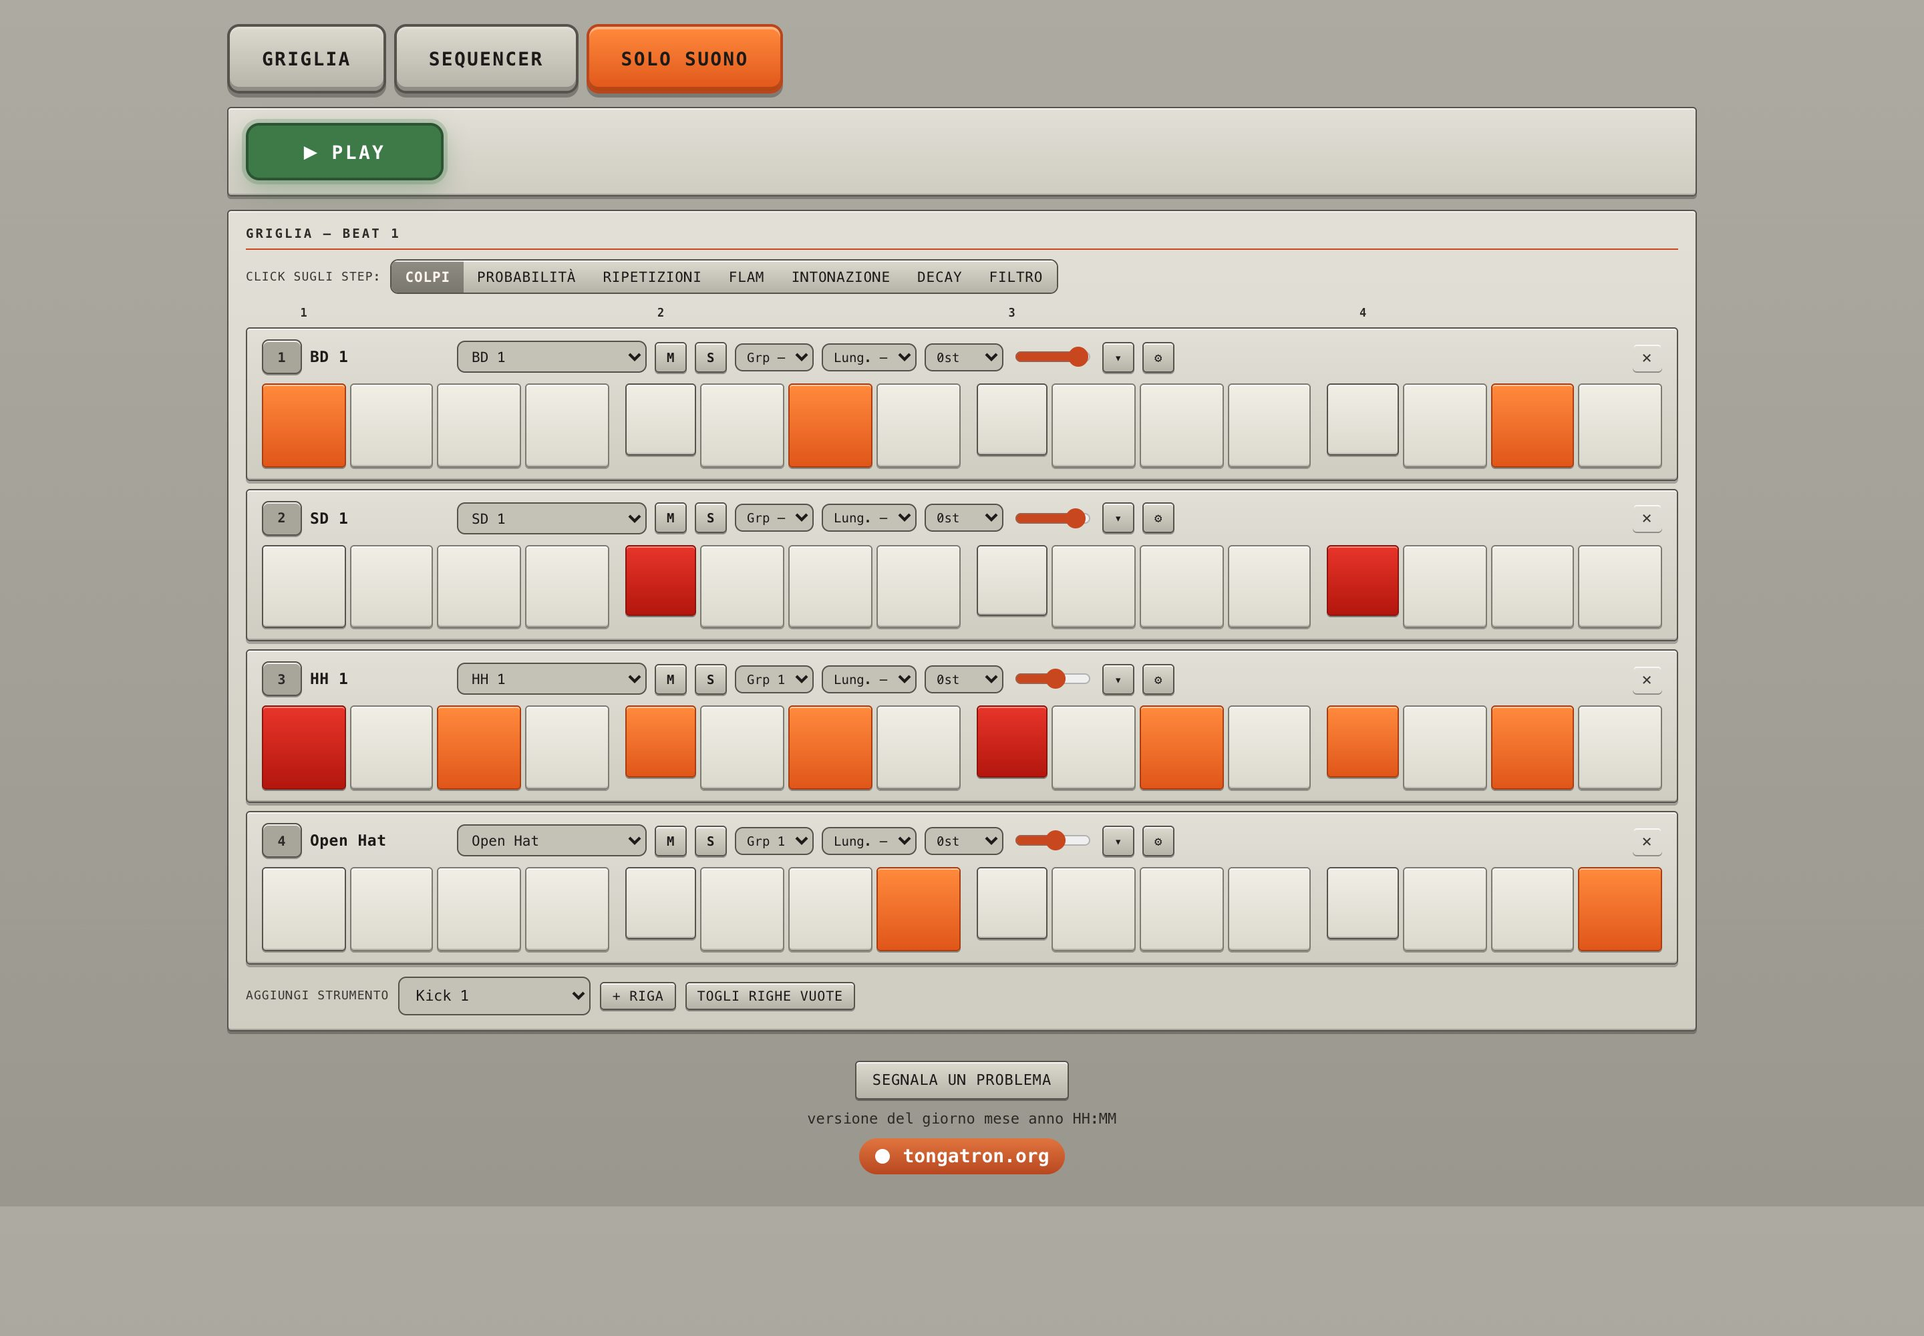
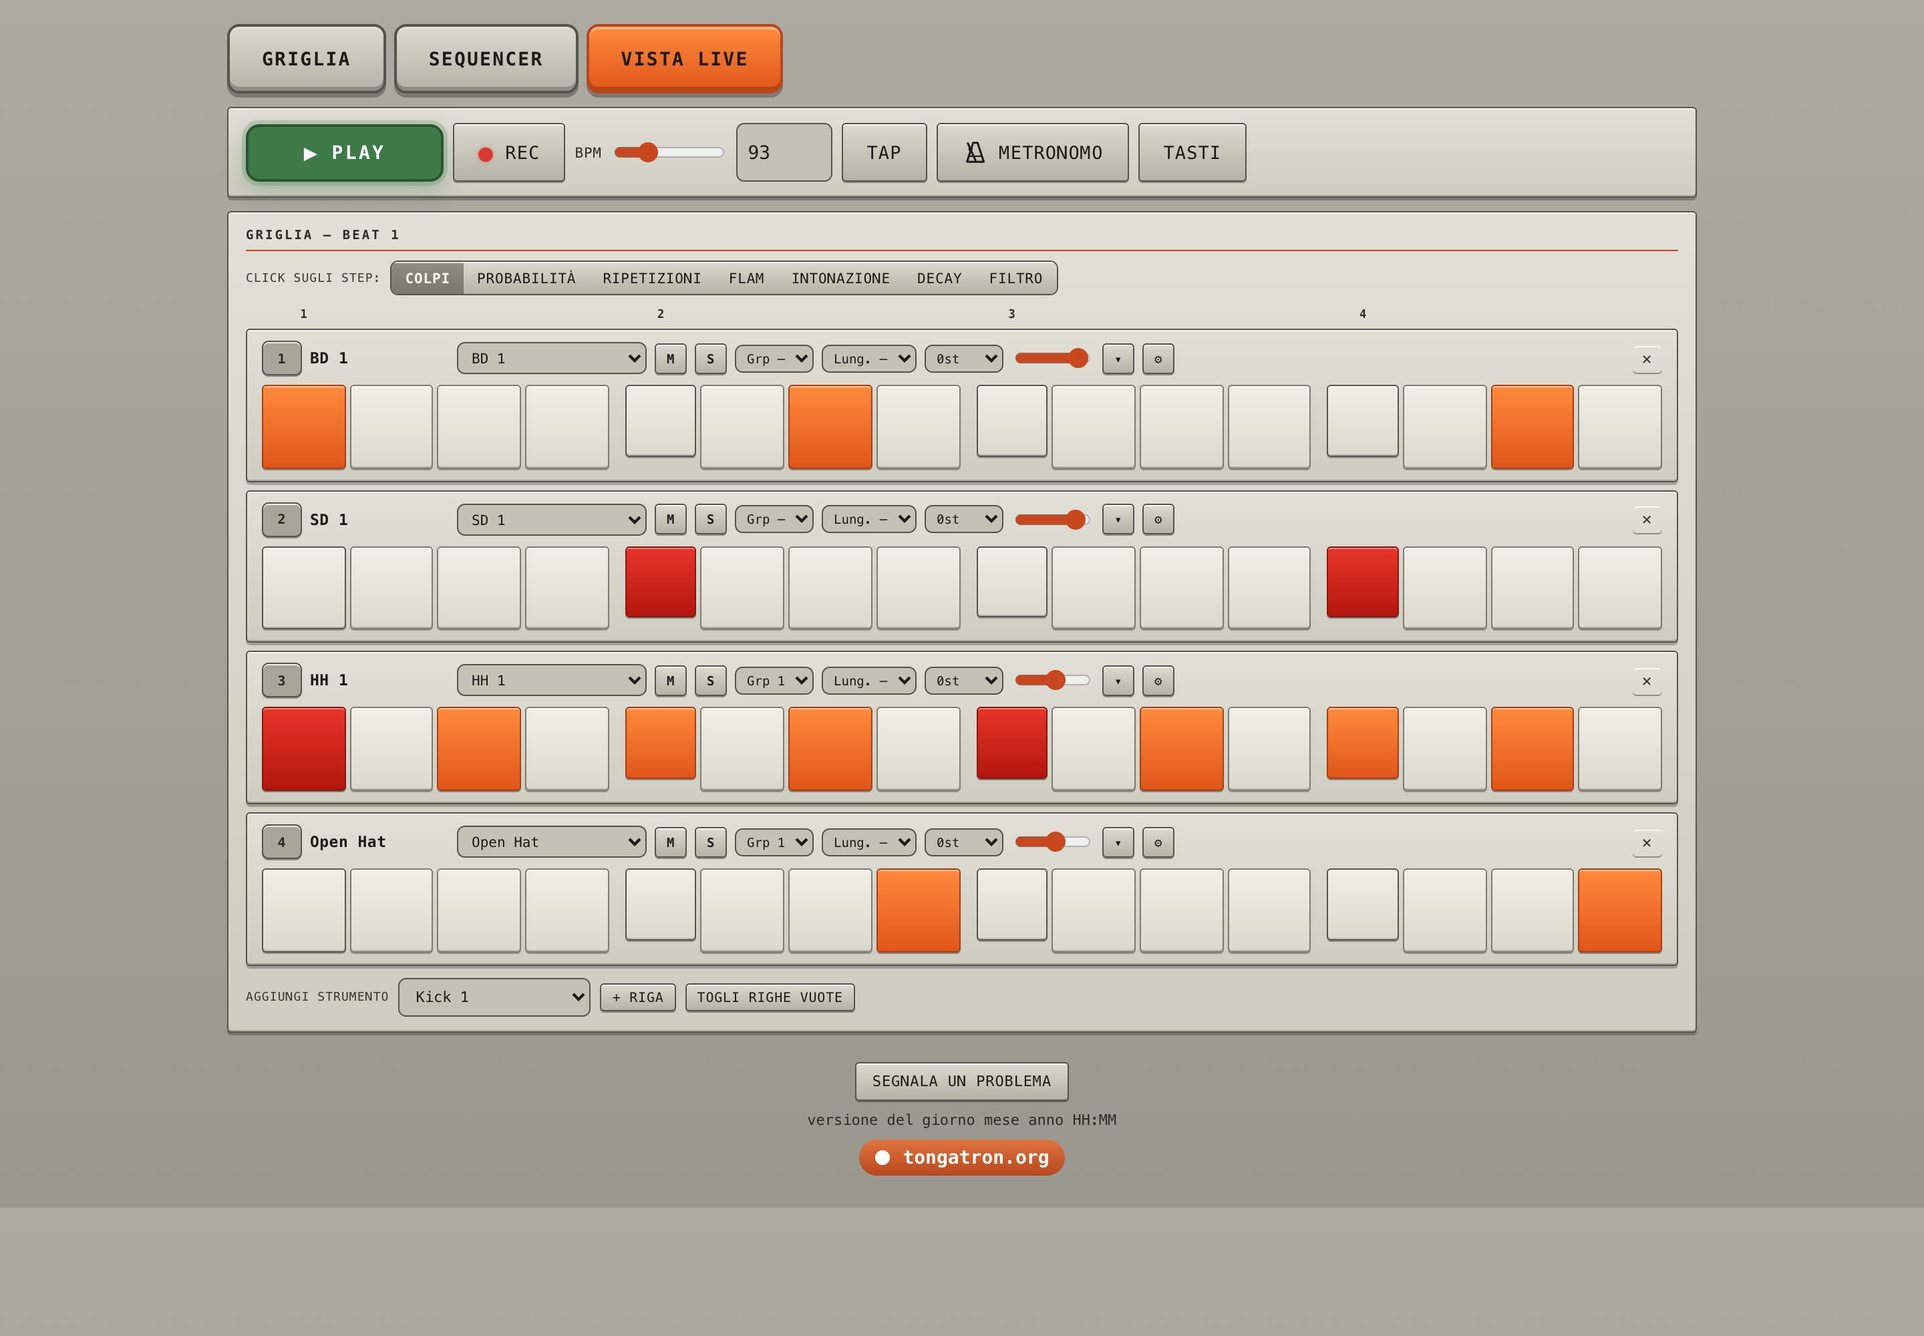
feat: Vista Live con tasti degli strumenti, Rec, tempo e metronomo
- "Solo suono" diventa "Vista Live"
- all'ingresso una finestra elenca tasto > strumento (Chiudi / Non mostrare piu', pulsante Tasti per riaprirla)
- nella barra: Rec, BPM, Tap e Metronomo dopo Play
- tocchi e tasti suonano senza scrivere; opzione+tasto o cmd+click sul pad scrive nello step che suona,
  cmd+click su uno step lo accende/spegne

diff --git a/site/index.html b/site/index.html
@@ -278,9 +278,16 @@ label.fld input[type=number]{width:54px;}
 .machine-bar{display:flex; flex-wrap:wrap; align-items:center; gap:10px; margin-top:12px; padding-top:11px; border-top:1px solid var(--edge-soft);}
 .machine-info{margin-left:auto; font-size:11px; color:var(--text-dim); letter-spacing:.02em; text-align:right;}
 .transport-extra{display:contents;}
-/* Vista "solo suono": solo la griglia dei beat (con le sue opzioni) e Play/Stop. */
+/* Vista Live: la griglia dei beat (con le sue opzioni), Play/Stop, Rec, tempo e metronomo. */
 body.sound-view .topbar, body.sound-view .project-panel, body.sound-view #machinePanel,
-body.sound-view #panelPatterns, body.sound-view .transport-extra{display:none;}
+body.sound-view #panelPatterns, body.sound-view .transport-extra > :not(.live-keep){display:none;}
+#liveKeysBtn{display:none;}
+body.sound-view #liveKeysBtn{display:inline-flex; align-items:center;}
+.live-keys{display:grid; grid-template-columns:repeat(4,minmax(0,1fr)); gap:6px; margin:0 0 14px;}
+.live-keys div{display:flex; align-items:center; gap:8px; min-width:0; font-size:13px;}
+.live-keys span{overflow:hidden; text-overflow:ellipsis; white-space:nowrap;}
+.live-help-mods{margin:0 0 16px; padding-left:18px; font-size:13px; line-height:1.5;}
+@media (max-width:560px){ .live-keys{grid-template-columns:repeat(2,minmax(0,1fr));} }
 .machine-label{font-size:10px; letter-spacing:.16em; text-transform:uppercase; color:var(--text-dim); font-weight:700;}
 .machine-buttons{display:flex; flex-wrap:wrap; gap:6px;}
 .machine-more{margin-left:auto; font-weight:400;}
@@ -526,7 +533,7 @@ button.danger-fill{background:var(--danger); border-color:var(--danger); color:#
 .seqblock-actions{display:flex; gap:4px;}
 .seqblock-actions button{flex:1 1 0; padding:4px 5px; font-size:9px;}
 .seqblock-actions button.on{background:var(--key-primary,var(--accent)); color:var(--on-accent); border-color:var(--accent-dim); font-weight:700;}
-#metronomeBtn{min-height:44px; padding:11px 18px; font-size:13.5px;}
+#metronomeBtn, #liveKeysBtn{min-height:44px; padding:11px 18px; font-size:13.5px;}
 #metronomeBtn.on{background:var(--key-primary,var(--accent)); color:var(--on-accent); border-color:var(--accent-dim);}
 /* Icona metronomo: cassa a piramide e asticella che oscilla. Quando suona, ogni click manda l'asticella
    dall'altra parte in una battuta, cosi' arriva in fondo proprio sul click successivo. */
@@ -739,7 +746,7 @@ kbd{background:var(--panel-2); border:1px solid var(--edge); border-radius:3px; 
   <div class="tabs">
     <button id="viewGrid" class="on">Griglia</button>
     <button id="viewSeq">Sequencer</button>
-    <button id="viewSound" title="Solo la griglia dei beat e Play/Stop, senza il resto">Solo suono</button>
+    <button id="viewSound" title="Per suonare dal vivo: la griglia, Play, Rec, tempo e metronomo">Vista Live</button>
   </div>
 
   <div class="panel" id="panelPatterns">
@@ -768,13 +775,14 @@ kbd{background:var(--panel-2); border:1px solid var(--edge); border-radius:3px; 
     <div class="flexline">
       <button id="playBtn" title="Play / Stop (barra spaziatrice)"><span class="ico">&#9654;</span> Play</button>
       <div class="transport-extra">
-        <button id="recBtn"><span class="rec-dot" aria-hidden="true">&#9679;</span> Rec</button>
-        <label class="fld">BPM
+        <button id="recBtn" class="live-keep"><span class="rec-dot" aria-hidden="true">&#9679;</span> Rec</button>
+        <label class="fld live-keep">BPM
           <input type="range" id="bpmRange" min="60" max="180" value="93">
         <input type="number" id="bpmNum" min="40" max="240" value="93">
         </label>
-        <button id="tapBtn" class="mini">Tap</button>
-        <button id="metronomeBtn" class="mini" type="button" aria-pressed="false" title="Attiva/disattiva il metronomo"><svg class="metro-ico" viewBox="0 0 24 24" aria-hidden="true" fill="none" stroke="currentColor" stroke-width="1.8" stroke-linecap="round" stroke-linejoin="round"><path d="M10 3.5h4l5.5 17h-15z"/><path d="M7.2 15.5h9.6" stroke-width="1.3"/><g class="rod"><path d="M12 19V2.5"/><rect x="10.2" y="7" width="3.6" height="2.6" rx=".6" fill="currentColor" stroke="none"/></g></svg>Metronomo</button>
+        <button id="tapBtn" class="mini live-keep">Tap</button>
+        <button id="metronomeBtn" class="mini live-keep" type="button" aria-pressed="false" title="Attiva/disattiva il metronomo"><svg class="metro-ico" viewBox="0 0 24 24" aria-hidden="true" fill="none" stroke="currentColor" stroke-width="1.8" stroke-linecap="round" stroke-linejoin="round"><path d="M10 3.5h4l5.5 17h-15z"/><path d="M7.2 15.5h9.6" stroke-width="1.3"/><g class="rod"><path d="M12 19V2.5"/><rect x="10.2" y="7" width="3.6" height="2.6" rx=".6" fill="currentColor" stroke="none"/></g></svg>Metronomo</button>
+        <button id="liveKeysBtn" class="mini live-keep" type="button" title="Mostra i tasti degli strumenti">Tasti</button>
         <label class="fld" title="swing alla MPC: 50% dritto, 66% terzinato, 75% massimo">Swing <input type="range" id="swingRange" min="0" max="100" value="0"> <span id="swingPct" class="tiny">50%</span></label>
         <label class="fld" title="umanizza: piccole differenze a caso di tempo (fino a 10 ms) e forza (fino al 15%)">Umano <input type="range" id="humanRange" min="0" max="100" value="0"></label>
         <label class="fld">Vol <input type="range" id="masterVol" min="0" max="100" value="85"></label>
@@ -1037,6 +1045,23 @@ kbd{background:var(--panel-2); border:1px solid var(--edge); border-radius:3px; 
       </div>
     </form>
   </dialog>
+  <dialog class="ask app-promo" id="liveHelp" aria-labelledby="liveHelpTitle">
+    <form method="dialog">
+      <h3 id="liveHelpTitle">Vista Live · tasti</h3>
+      <p>Ogni tasto o tocco suona lo strumento, senza scriverlo nel pattern:</p>
+      <div class="live-keys" id="liveKeys"></div>
+      <ul class="live-help-mods">
+        <li><kbd>spazio</kbd> Play / Stop.</li>
+        <li><kbd>⌥</kbd> + tasto, oppure <kbd>⌘</kbd> + click sul pad: scrive il colpo nello step che sta suonando.</li>
+        <li><kbd>⌘</kbd> + click su uno step: lo accende o lo spegne (con <kbd>⌘⌥</kbd> accento, <kbd>⌘⇧</kbd> nota fantasma).</li>
+        <li><b>Rec</b> acceso durante il Play: anche i tasti normali scrivono i colpi.</li>
+      </ul>
+      <div class="ask-btns">
+        <button type="submit" value="never">Non mostrare più</button>
+        <button type="submit" value="close" class="primary">Chiudi</button>
+      </div>
+    </form>
+  </dialog>
   <dialog class="ask app-promo" id="guestPromo" aria-labelledby="guestPromoTitle">
     <form method="dialog">
       <h3 id="guestPromoTitle">Perché registrarsi</h3>
@@ -1055,19 +1080,19 @@ kbd{background:var(--panel-2); border:1px solid var(--edge); border-radius:3px; 
 </div>
 
 <!-- Motore ritmico: il ?v= deve seguire SW_VERSION (Cloudflare tiene in cache i .js). -->
-<script src="engine/core.js?v=2026-09-28.03"></script>
-<script src="engine/styles-punk.js?v=2026-09-28.03"></script>
-<script src="engine/styles-post.js?v=2026-09-28.03"></script>
-<script src="engine/styles-machines.js?v=2026-09-28.03"></script>
-<script src="engine/styles-alt.js?v=2026-09-28.03"></script>
-<script src="engine/styles-groove.js?v=2026-09-28.03"></script>
-<script src="engine/styles-dub.js?v=2026-09-28.03"></script>
-<script src="engine/styles-break.js?v=2026-09-28.03"></script>
-<script src="engine/styles-soul.js?v=2026-09-28.03"></script>
-<script src="engine/styles-metal.js?v=2026-09-28.03"></script>
-<script src="engine/styles-electro.js?v=2026-09-28.03"></script>
-<script src="engine/variations.js?v=2026-09-28.03"></script>
-<script src="engine/import.js?v=2026-09-28.03"></script>
+<script src="engine/core.js?v=2026-09-28.04"></script>
+<script src="engine/styles-punk.js?v=2026-09-28.04"></script>
+<script src="engine/styles-post.js?v=2026-09-28.04"></script>
+<script src="engine/styles-machines.js?v=2026-09-28.04"></script>
+<script src="engine/styles-alt.js?v=2026-09-28.04"></script>
+<script src="engine/styles-groove.js?v=2026-09-28.04"></script>
+<script src="engine/styles-dub.js?v=2026-09-28.04"></script>
+<script src="engine/styles-break.js?v=2026-09-28.04"></script>
+<script src="engine/styles-soul.js?v=2026-09-28.04"></script>
+<script src="engine/styles-metal.js?v=2026-09-28.04"></script>
+<script src="engine/styles-electro.js?v=2026-09-28.04"></script>
+<script src="engine/variations.js?v=2026-09-28.04"></script>
+<script src="engine/import.js?v=2026-09-28.04"></script>
 <script>
 const KEYS =["1","2","3","4","q","w","e","r","a","s","d","f","z","x","c","v"];
 const PAD_LABEL = ["1","2","3","4","Q","W","E","R","A","S","D","F","Z","X","C","V"];
@@ -1839,7 +1864,7 @@ function renderTracks(){
     const pad=document.createElement("button");
     pad.className="pad"; pad.textContent=PAD_LABEL[idx]||"•";
     pad.title="Suona (anteprima)";
-    pad.onclick=()=>hitPad(idx);
+    pad.onclick=(ev)=>{ if(isLive() && (ev.metaKey||ev.ctrlKey||ev.altKey)) liveWrite(idx); else hitPad(idx); };
     top.appendChild(pad);
 
     const nm=document.createElement("div");
@@ -1912,6 +1937,7 @@ function renderTracks(){
       paintStep(b,arr[i],i,modOf(pat,t.id,i));
       if(i>=L){ b.disabled=true; b.classList.add("outlen"); b.title="fuori dalla lunghezza della traccia"; }
       b.onclick=(ev)=>{
+        if(isLive() && !(ev.metaKey||ev.ctrlKey)){ hitPad(project.tracks.indexOf(t)); return; }
         const key=STEP_MODE_KEY[ui.stepMode];
         if(key){
           if(!arr[i]){ setStatus("prima accendi il colpo (modalita' Colpi)"); return; }
@@ -1930,7 +1956,10 @@ function renderTracks(){
         paintStep(b,arr[i],i,modOf(pat,t.id,i));
         lanePaint.get(t.id)?.();
       };
-      b.oncontextmenu=(ev)=>{ ev.preventDefault(); pushUndo(); arr[i]= arr[i]===2?0:2; paintStep(b,arr[i],i,modOf(pat,t.id,i)); lanePaint.get(t.id)?.(); };
+      b.oncontextmenu=(ev)=>{ ev.preventDefault();
+        // sul Mac ctrl+click arriva come click destro: nella Vista Live accende/spegne lo step come cmd+click
+        if(isLive()){ if(ev.ctrlKey){ pushUndo(); arr[i]= arr[i]?0:1; paintStep(b,arr[i],i,modOf(pat,t.id,i)); lanePaint.get(t.id)?.(); } return; }
+        pushUndo(); arr[i]= arr[i]===2?0:2; paintStep(b,arr[i],i,modOf(pat,t.id,i)); lanePaint.get(t.id)?.(); };
       steps.appendChild(b); els.push(b);
     }
     stepEls.set(t.id,els);
@@ -2364,16 +2393,18 @@ function setView(v){
   el("viewSound").classList.toggle("on",v==="sound");
   el("viewRecent").classList.toggle("on",v==="recent");
   document.body.classList.toggle("sound-view",v==="sound");
-  // "Solo suono" mostra la stessa griglia della Griglia, senza il resto dell'interfaccia.
+  // La Vista Live mostra la stessa griglia della Griglia, senza il resto dell'interfaccia.
   el("panelPatterns").hidden = v!=="grid";
   el("panelGrid").hidden = v!=="grid" && v!=="sound";
   el("panelSeq").hidden = v!=="seq";
   el("panelRecent").hidden = v!=="recent";
   setMode(v==="seq"?"song":"pattern");
   el("helpKeys").hidden = v!=="grid";
-  // Rec registra nella griglia del pattern: fuori dalla Griglia sparisce e si spegne
-  el("recBtn").hidden = v!=="grid";
-  if(v!=="grid" && recording){ recording=false; el("recBtn").classList.remove("on"); }
+  // Rec registra nella griglia del pattern: fuori da Griglia e Vista Live sparisce e si spegne
+  const recView = v==="grid" || v==="sound";
+  el("recBtn").hidden = !recView;
+  if(!recView && recording){ recording=false; el("recBtn").classList.remove("on"); }
+  if(v==="sound") showLiveHelp();
   if(v==="recent") refreshRecent();
   if(v==="seq") renderSong();
 }
@@ -2406,6 +2437,37 @@ function hitPad(idx){
   if(padEl){ padEl.classList.add("hit"); setTimeout(()=>padEl.classList.remove("hit"),90); }
   if(recording && playing) recordHit(t);
 }
+
+// Vista Live: tasti e tocchi suonano soltanto; con un modificatore il colpo si scrive nello step che suona.
+const isLive = ()=>document.body.classList.contains("sound-view");
+function liveWrite(idx){
+  const t=project.tracks[idx];
+  if(!t) return;
+  hitPad(idx);
+  if(!playing){ setStatus("premi Play: il colpo si scrive nello step che sta suonando"); return; }
+  if(!recording){ pushUndo(); recordHit(t); }
+}
+const LIVE_HELP_KEY="pm.liveHelp.hide";
+function fillLiveKeys(){
+  const box=el("liveKeys"); box.innerHTML="";
+  project.tracks.slice(0,KEYS.length).forEach((t,i)=>{
+    const d=document.createElement("div"), k=document.createElement("kbd"), n=document.createElement("span");
+    k.textContent=PAD_LABEL[i]; n.textContent=sampleLabel(t.sampleIndex); n.title=n.textContent;
+    d.append(k,n); box.appendChild(d);
+  });
+}
+function showLiveHelp(force=false){
+  if(!force){ try{ if(localStorage.getItem(LIVE_HELP_KEY)) return; }catch(e){} }
+  const d=el("liveHelp");
+  if(d.open) return;
+  fillLiveKeys();
+  d.returnValue="close";
+  d.onclose=()=>{ if(d.returnValue==="never"){ try{ localStorage.setItem(LIVE_HELP_KEY,"1"); }catch(e){} } };
+  d.showModal();
+  d.querySelector('button[value="close"]').focus();
+}
+el("liveKeysBtn").onclick=()=>showLiveHelp(true);
+el("liveHelp").addEventListener("click",e=>{ if(e.target===el("liveHelp")) el("liveHelp").close("close"); });
 
 function recordHit(track){
   const pat=playingPattern();
@@ -2506,6 +2568,11 @@ document.addEventListener("keydown",(e)=>{
   if(!el("libOverlay").hidden && e.key==="Escape"){ closeLib(); return; }
   if(tag==="INPUT"||tag==="SELECT"||tag==="TEXTAREA") return;
   if(e.code==="Space"){ e.preventDefault(); togglePlay(); return; }
+  if(e.altKey && !e.metaKey && !e.ctrlKey && isLive()){
+    const j=KEYS.findIndex(k=>e.code===(/\d/.test(k)?"Digit"+k:"Key"+k.toUpperCase()));
+    if(j>=0){ e.preventDefault(); if(!e.repeat) liveWrite(j); }
+    return;
+  }
   if(e.metaKey||e.ctrlKey||e.altKey) return;
   const i=KEYS.indexOf(e.key.toLowerCase());
   if(i>=0 && !e.repeat){ e.preventDefault(); hitPad(i); }
@@ -4527,7 +4594,7 @@ window.addEventListener("resize",()=>{
 
 // ---------- PWA: installazione, offline ----------
 // La versione deve coincidere con VERSION in sw.js: l'URL nuovo scavalca la cache di Cloudflare.
-const SW_VERSION="2026-09-28.03";
+const SW_VERSION="2026-09-28.04";
 (function pwa(){
   const netBadge=el("netBadge");
 

diff --git a/site/funzioni.html b/site/funzioni.html
@@ -346,18 +346,18 @@ th{border-bottom:1px solid var(--edge); font:700 10px/1.3 var(--mono); letter-sp
 <footer class="site-footer"><a class="report-link" href="./#segnala">Segnala un problema</a><span class="site-version"><!--build-->versione del giorno mese anno HH:MM<!--/build--></span><a class="site-badge" href="https://tongatron.org/"><span class="mark"></span><span>tongatron.org</span></a></footer>
 </div>
 
-<script src="engine/core.js?v=2026-09-28.03"></script>
-<script src="engine/styles-punk.js?v=2026-09-28.03"></script>
-<script src="engine/styles-post.js?v=2026-09-28.03"></script>
-<script src="engine/styles-machines.js?v=2026-09-28.03"></script>
-<script src="engine/styles-alt.js?v=2026-09-28.03"></script>
-<script src="engine/styles-groove.js?v=2026-09-28.03"></script>
-<script src="engine/styles-dub.js?v=2026-09-28.03"></script>
-<script src="engine/styles-break.js?v=2026-09-28.03"></script>
-<script src="engine/styles-soul.js?v=2026-09-28.03"></script>
-<script src="engine/styles-metal.js?v=2026-09-28.03"></script>
-<script src="engine/styles-electro.js?v=2026-09-28.03"></script>
-<script src="engine/variations.js?v=2026-09-28.03"></script>
+<script src="engine/core.js?v=2026-09-28.04"></script>
+<script src="engine/styles-punk.js?v=2026-09-28.04"></script>
+<script src="engine/styles-post.js?v=2026-09-28.04"></script>
+<script src="engine/styles-machines.js?v=2026-09-28.04"></script>
+<script src="engine/styles-alt.js?v=2026-09-28.04"></script>
+<script src="engine/styles-groove.js?v=2026-09-28.04"></script>
+<script src="engine/styles-dub.js?v=2026-09-28.04"></script>
+<script src="engine/styles-break.js?v=2026-09-28.04"></script>
+<script src="engine/styles-soul.js?v=2026-09-28.04"></script>
+<script src="engine/styles-metal.js?v=2026-09-28.04"></script>
+<script src="engine/styles-electro.js?v=2026-09-28.04"></script>
+<script src="engine/variations.js?v=2026-09-28.04"></script>
 <script>
 // Stili, gruppi e variazioni vengono dal motore: questa pagina non va aggiornata a mano quando se ne aggiungono.
 (function(){

diff --git a/site/sw.js b/site/sw.js
@@ -7,7 +7,7 @@
 // Cloudflare tiene in cache i .js, l'URL nuovo lo scavalca.
 // Il worker nuovo si attiva subito (skipWaiting): la pagina aperta e' gia' quella
 // presa dalla rete, quindi non serve ricaricarla e non si perde lavoro non salvato.
-const VERSION = "2026-09-28.03";
+const VERSION = "2026-09-28.04";
 const SHELL_CACHE = `sp1200-shell-${VERSION}`;
 const SAMPLE_CACHE = "sp1200-samples-v1"; // non versionata: i campioni non si riscaricano ad ogni rilascio
 

diff --git a/README.md b/README.md
@@ -70,8 +70,12 @@ Switching machine maps every row to the closest sound. Each machine shows its ma
 Chain patterns into blocks (verse, chorus, fill…), each with its own repeats. Drag blocks to reorder them, start playback
 from any point on the timeline or solo a single block.
 
-### "Solo suono" (sound only) view
-Just the beat grid and Play / Stop, nothing else: made for playing, rehearsing and recording.
+### Live view
+The beat grid with Play, Rec, tempo and metronome, nothing else: made for playing live.
+- Every key or tap **plays** the instrument without writing it into the pattern; a pop-up lists which key plays which instrument.
+- **⌥ + key** or **⌘ + click on a pad** writes the hit into the step that is playing.
+- **⌘ + click on a step** turns it on or off (with ⌥ for an accent, ⇧ for a ghost note).
+- With **Rec** on during playback, plain keys record too.
 
 ### Export
 | Format | What you get |
@@ -146,9 +150,9 @@ Step-by-step instructions are in the [guide](https://patternmachine.tongatron.or
 
 ## Screenshots
 
-| Sound-only view | Song arranger |
+| Live view | Song arranger |
 |---|---|
-| ![Sound-only view](docs/screenshots/solo-suono.jpg) | ![Song arranger](docs/screenshots/sequencer.jpg) |
+| ![Live view](docs/screenshots/solo-suono.jpg) | ![Song arranger](docs/screenshots/sequencer.jpg) |
 
 | Dark theme | Mobile |
 |---|---|
